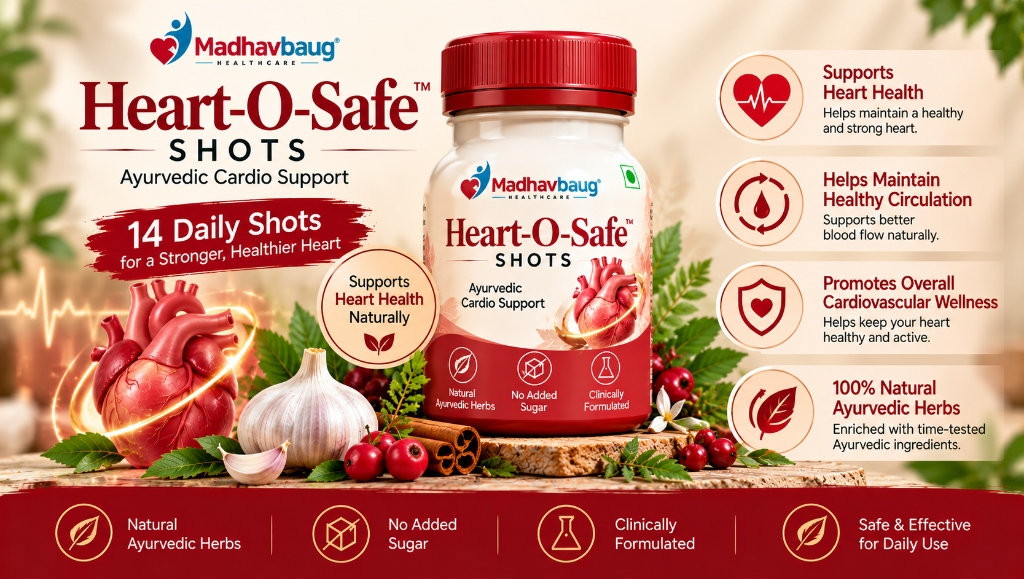
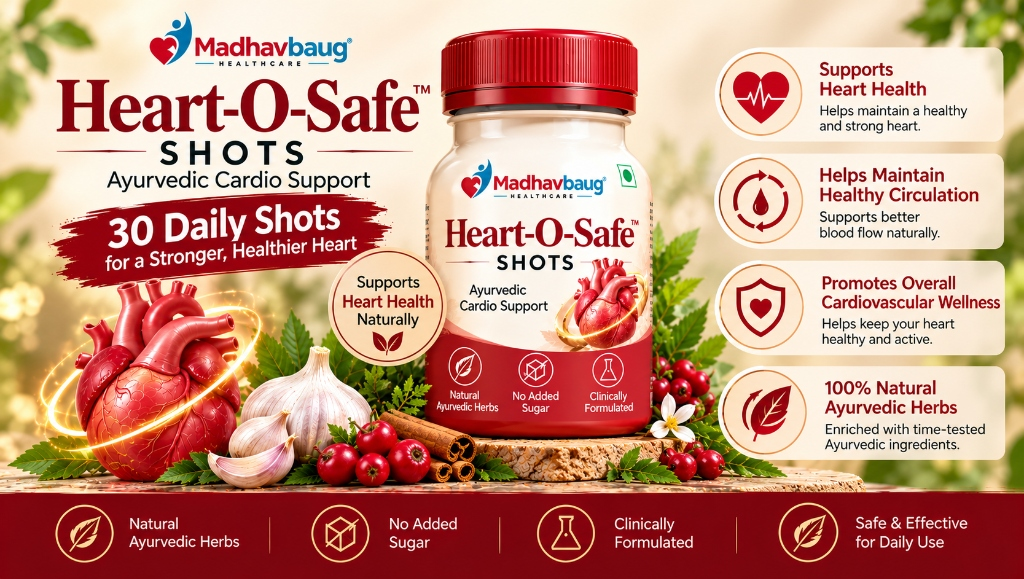
added

diff --git a/index.html b/index.html
@@ -212,7 +212,7 @@
   <section class="heart-safe-banner-section" style="padding: 24px 0 10px; background: var(--bg-cream);">
     <div class="container">
       <div style="border-radius: var(--radius-lg); overflow: hidden; box-shadow: var(--shadow-md); border: 1.5px solid var(--border-beige); background: #FFFFFF; text-align: center;">
-        <img src="assets/images/heart_o_safe_banner_below_hero.jpg" alt="Madhavbaug Heart-O-Safe Shots - Pack of 30 Shots for 30 Days Ayurvedic Cardio Support" style="width: 100% !important; height: auto !important; max-height: none !important; object-fit: contain !important; display: block !important;" loading="lazy">
+        <img src="assets/images/heart_o_safe_30shots_box_banner.jpg" alt="Madhavbaug Heart-O-Safe Shots - Pack of 30 Shots for 30 Days Ayurvedic Cardio Support" style="width: 100% !important; height: auto !important; max-height: none !important; object-fit: contain !important; display: block !important;" loading="lazy">
       </div>
     </div>
   </section>
@@ -355,7 +355,7 @@
   <section class="full-bleed-banner-placeholder-wrap" id="routine-banner">
     <div class="container">
       <div class="routine-banner-wrap" style="border-radius: var(--radius-lg); overflow: hidden; box-shadow: var(--shadow-lg); border: 2px solid var(--border-beige); background: #FFFFFF;">
-        <img src="assets/images/heart_o_safe_14day_shots.jpg" alt="Heart-O-Safe Shots - Pack of 30 Shots for 30 Days - Helps Maintain Healthy Circulation" style="width: 100%; height: auto; display: block;" loading="lazy">
+        <img src="assets/images/heart_o_safe_30day_routine.jpg" alt="Heart-O-Safe Shots - 30 Daily Shots for a Stronger, Healthier Heart - Helps Maintain Healthy Circulation" style="width: 100%; height: auto; display: block;" loading="lazy">
       </div>
     </div>
   </section>
